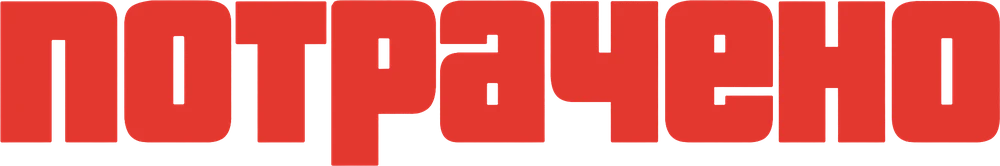
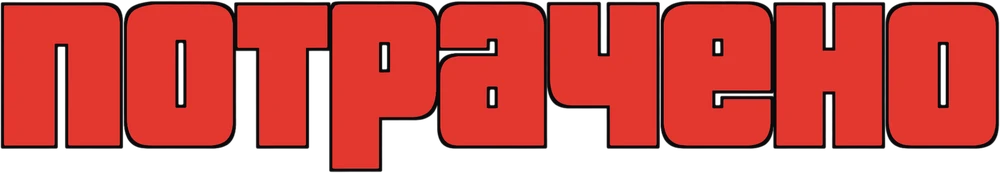
v2: иконка-треугольник SVG вместо эмодзи ⚠, чёрный контур у «потрачено» только по краю букв, бегущая строка посередине блока

Changed region(s): [[0.0, 0.0, 1.0, 1.0], [0.93, 0.2108, 0.961, 0.6325], [0.372, 0.2108, 0.403, 0.4217]]

diff --git a/app/v2/v2.css b/app/v2/v2.css
@@ -152,7 +152,7 @@
 .v2-signs-grid { display: grid; gap: 28px; align-items: center; }
 .v2-signs { display: grid; gap: 10px; margin: 24px 0; }
 .v2-signs li { display: flex; gap: 14px; align-items: flex-start; padding: 14px 16px; font-weight: 600; background: var(--card); border: 2px solid var(--line); border-bottom-width: 4px; border-radius: 12px; }
-.v2-signs span { color: var(--gold); font-size: 20px; line-height: 1.15; }
+.v2-signs__icon { flex: none; margin-top: 2px; color: var(--gold); }
 .v2-conclusion { font-size: 20px; font-weight: 800; margin-bottom: 20px; }
 
 .v2-crush { position: relative; display: flex; flex-direction: column; align-items: center; padding-top: 10px; overflow: hidden; background: radial-gradient(ellipse 60% 55% at 50% 60%, var(--glow), transparent 70%); border-bottom: 4px solid var(--line); }
@@ -164,10 +164,11 @@
 
 /* ---------- строка, которая сбивает героя с ног (как блок у Ясно); движение и удар — в KnockBand.tsx ---------- */
 .v2-knock { --fs: clamp(30px, 5vw, 64px); position: relative; height: clamp(240px, 30vw, 380px); overflow: hidden; background: var(--bg2); }
-.v2-knock__band { position: absolute; left: -10%; right: -10%; top: 64%; rotate: -4deg; z-index: 2; }
+/* строка ровно посередине по высоте: после того как героя снесло, сверху и снизу одинаково */
+.v2-knock__band { position: absolute; left: -10%; right: -10%; top: calc(50% - var(--fs) / 2); rotate: -4deg; z-index: 2; }
 .v2-knock__row { display: flex; gap: 1.2em; width: max-content; font: 600 var(--fs)/1 'Manrope', sans-serif; letter-spacing: -0.02em; color: var(--fg); white-space: nowrap; will-change: transform; }
 /* ноги внутри строки: она идёт на уровне голеней */
-.v2-knock__man { position: absolute; left: 50%; bottom: calc(36% - var(--fs) * .95); z-index: 1; height: 64%; width: auto; translate: -50% 0; transform-origin: 50% 85%; filter: drop-shadow(0 12px 12px var(--shadow)); }
+.v2-knock__man { position: absolute; left: 50%; bottom: calc(50% - var(--fs) * .45); z-index: 1; height: 50%; width: auto; translate: -50% 0; transform-origin: 50% 85%; filter: drop-shadow(0 12px 12px var(--shadow)); }
 .v2-knock__man.is-hit { animation: v2-knock-hit 1s cubic-bezier(.2, .7, .4, 1) forwards; }
 /* сносит туда же, куда едет строка — влево, кувырком, за экран; обратно не возвращается */
 @keyframes v2-knock-hit {

diff --git a/app/v2/page.tsx b/app/v2/page.tsx
@@ -153,7 +153,14 @@ export default function V2Page() {
               <h2 className="v2-h2">Узнал себя?</h2>
               <ul className="v2-signs">
                 {SIGNS.map((s) => (
-                  <li key={s}><span aria-hidden="true">⚠</span>{s}</li>
+                  <li key={s}>
+                    <svg className="v2-signs__icon" width="20" height="20" viewBox="0 0 24 24" fill="none" aria-hidden="true">
+                      <path d="M10.3 3.9 1.9 18.5A2 2 0 0 0 3.6 21.5h16.8a2 2 0 0 0 1.7-3L13.7 3.9a2 2 0 0 0-3.4 0Z" stroke="currentColor" strokeWidth="2" strokeLinejoin="round" />
+                      <path d="M12 9.5v4.5" stroke="currentColor" strokeWidth="2.2" strokeLinecap="round" />
+                      <circle cx="12" cy="17.4" r="1.25" fill="currentColor" />
+                    </svg>
+                    {s}
+                  </li>
                 ))}
               </ul>
               <p className="v2-conclusion">Хоть один пункт про тебя? Не жди, пока всё развалится.</p>
